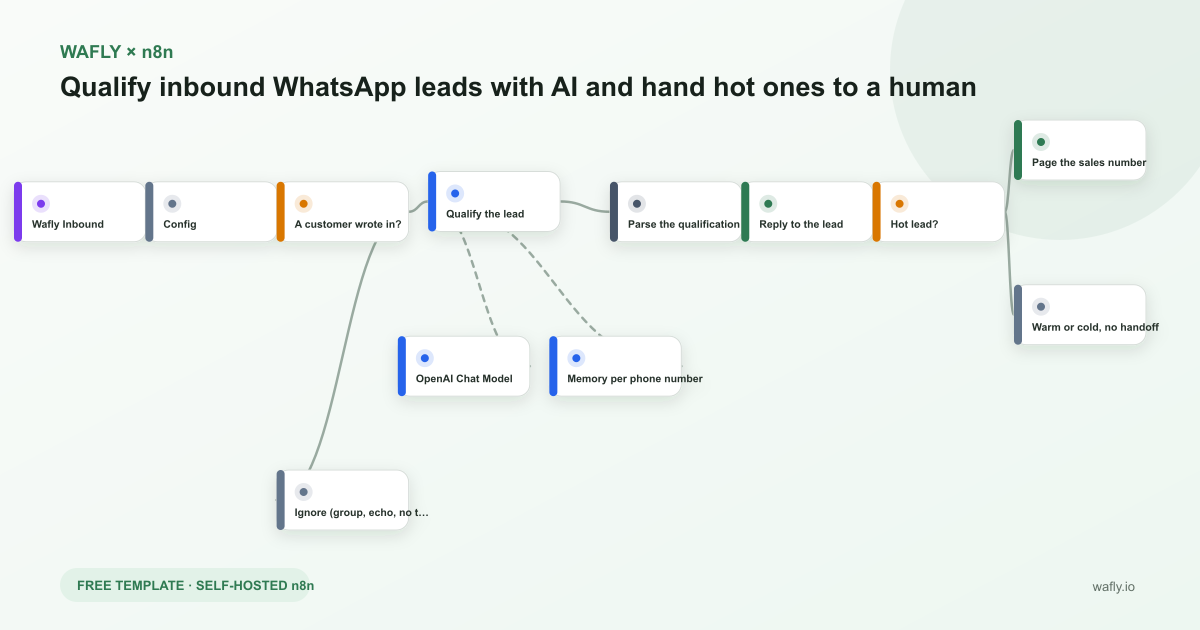
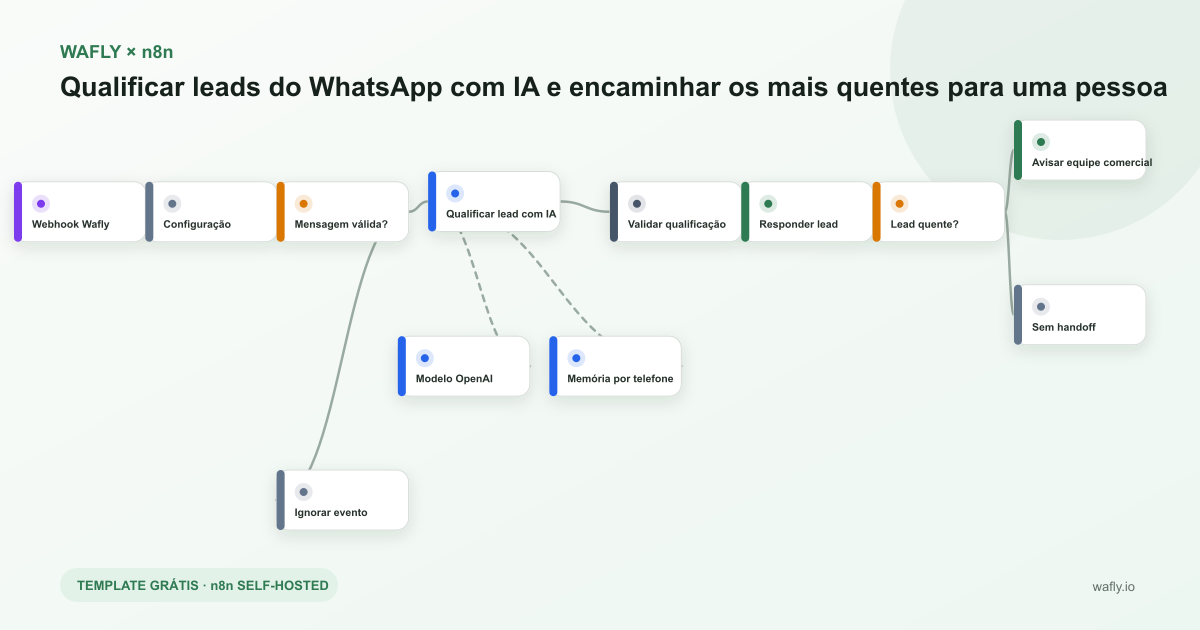
feat: turn lead qualifier into PT-BR flagship

diff --git a/README.md b/README.md
@@ -15,12 +15,12 @@ This is an n8n community node for the **Wafly WhatsApp Bridge API**. It lets you
 
 ## 🧩 Ready-made workflow templates
 
-Five workflows you can import and run, instead of starting from a blank canvas:
+Five workflows you can import and run, instead of starting from a blank canvas. The lead-qualification flagship is in Brazilian Portuguese and includes an end-to-end test payload:
 
 | Template | What it does |
 |---|---|
 | [AI agent replies once](examples/templates/04-whatsapp-ai-agent-replies-once.json) | Buffers messages that arrive in a burst so your agent answers once instead of three times |
-| [Qualify inbound leads](examples/templates/08-qualify-whatsapp-leads-and-hand-off.json) | Scores the conversation with AI and hands hot leads to a human |
+| [Qualificar leads do WhatsApp (PT-BR)](examples/templates/08-qualify-whatsapp-leads-and-hand-off.json) | Classifica a conversa com IA, responde o contato e entrega leads quentes para uma pessoa |
 | [Moderate a group](examples/templates/05-moderate-whatsapp-group.json) | Approves join requests, welcomes members and removes link spam |
 | [Send OTP with SMS fallback](examples/templates/06-send-otp-over-whatsapp.json) | Validates the number first, falls back to SMS when WhatsApp is unreachable |
 | [Alert on disconnect](examples/templates/07-alert-when-whatsapp-number-disconnects.json) | Checks the connection on a schedule and alerts when the number drops |
@@ -28,7 +28,7 @@ Five workflows you can import and run, instead of starting from a blank canvas:
 Import the JSON, create the **Wafly API** credential and activate. All of them run on
 self-hosted n8n, since community nodes are not available on n8n Cloud.
 
-Portuguese versions of these flows are in [`examples/templates`](examples/templates).
+See the [template index and setup notes](examples/templates/README.md). To run the PT-BR flagship, [start a free 3-day Wafly trial](https://wafly.com.br/signup?utm_source=github&utm_medium=repository&utm_campaign=qualificacao_leads_whatsapp&utm_content=readme_template_08&template_id=n8n-08-qualificar-leads).
 
 ## 🚀 Features
 

diff --git a/examples/templates/README.md b/examples/templates/README.md
@@ -1,0 +1,23 @@
+# Templates prontos da Wafly para n8n
+
+Todos os templates desta galeria usam o community node `n8n-nodes-wafly` e, por isso, precisam de um n8n self-hosted.
+
+## Destaque PT-BR: qualificação de leads
+
+[Baixe o workflow 08](08-qualify-whatsapp-leads-and-hand-off.json), importe o JSON no n8n e siga as notas **Instalação e teste** dentro do próprio canvas. O template recebe contatos do WhatsApp, classifica a intenção com IA, responde o lead e avisa uma pessoa somente quando o lead está quente.
+
+[Criar conta Wafly — 3 dias sem cartão](https://wafly.com.br/signup?utm_source=github&utm_medium=template_index&utm_campaign=qualificacao_leads_whatsapp&utm_content=template_08_cta&template_id=n8n-08-qualificar-leads)
+
+Identificador de atribuição: `n8n-08-qualificar-leads`.
+
+## Índice
+
+| Workflow | Idioma | Uso principal |
+|---|---|---|
+| [04 — Responder uma vez com agente de IA](04-whatsapp-ai-agent-replies-once.json) | EN | Agrupar mensagens em sequência antes de responder |
+| [05 — Moderar grupo](05-moderate-whatsapp-group.json) | EN | Aprovar entradas, permitir domínios e remover spam |
+| [06 — Enviar OTP com fallback para SMS](06-send-otp-over-whatsapp.json) | EN | Verificar o número e entregar código de uso único |
+| [07 — Alertar desconexão](07-alert-when-whatsapp-number-disconnects.json) | EN | Monitorar o número e alertar somente em mudança de estado |
+| [08 — Qualificar leads e fazer handoff](08-qualify-whatsapp-leads-and-hand-off.json) | PT-BR | Responder contatos e encaminhar leads quentes ao comercial |
+
+Os arquivos `01`, `02` e `03` são as versões anteriores em português dos casos `04`, `05` e `06`.

diff --git a/CHANGELOG.md b/CHANGELOG.md
@@ -5,6 +5,18 @@ All notable changes to this project are documented in this file.
 The format is based on [Keep a Changelog](https://keepachangelog.com/en/1.0.0/),
 and this project adheres to [Semantic Versioning](https://semver.org/).
 
+## [Unreleased]
+
+### Changed
+- Reworked template 08 as the PT-BR flagship for inbound lead qualification,
+  with step-by-step installation, a reproducible webhook test, tracked CTAs and
+  safer validation of the model output and commercial phone number.
+
+### Fixed
+- Template 08 now reads the lead temperature from the qualification result
+  after sending the reply. Previously the handoff condition inspected the Wafly
+  send response, so a hot lead could silently skip the commercial alert.
+
 ## [1.5.5] - 2026-09-12
 
 ### Fixed
